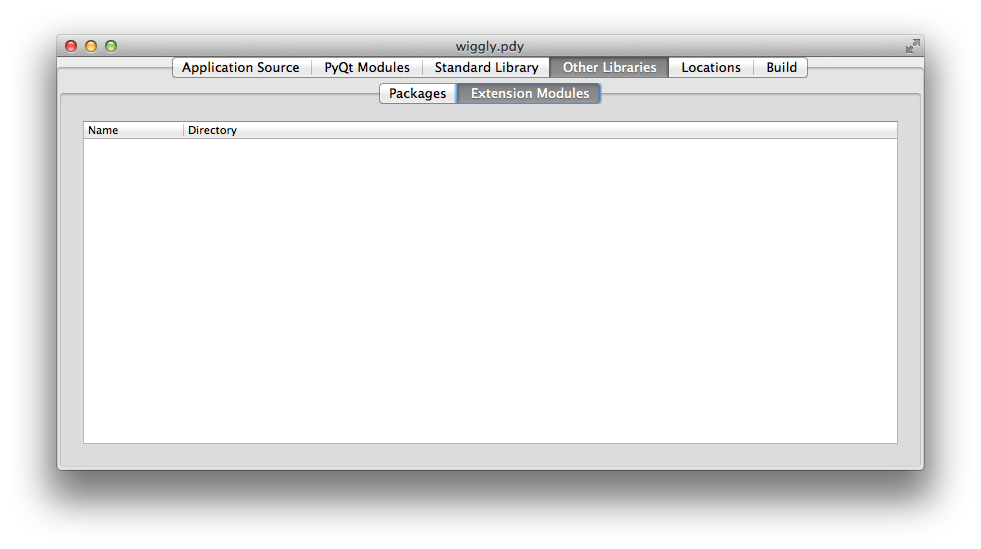
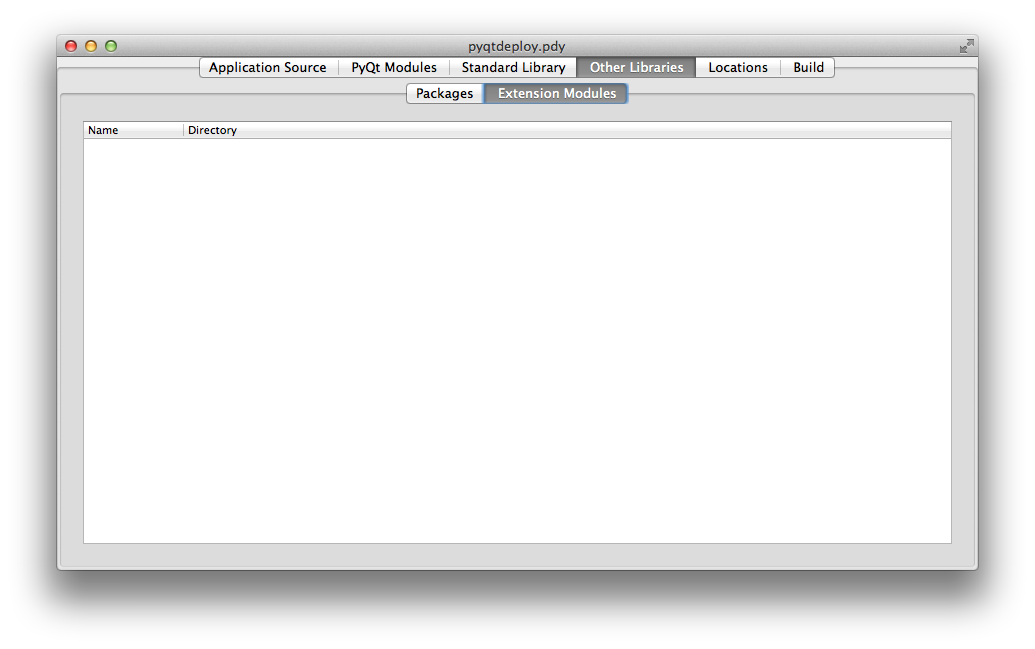
Updated the tutorial images.

Changed region(s): [[0.0306, 0.0619, 0.948, 0.929]]

diff --git a/doc/tutorial.rst b/doc/tutorial.rst
@@ -191,16 +191,6 @@ internally are included so, for example, the above shows that the
 :mod:`_weakrefset` and :mod:`abc` modules will be included and cannot be
 changed.
 
-
-Defining the Standard Library Extension Modules
------------------------------------------------
-
-The sub-tab for defining the Python standard library C extension modules used
-by the application is shown below.
-
-.. image:: /images/stdlib_extension_modules_tab.png
-    :align: center
-
 This sub-tab is used to select which of the standard library C extension
 modules are needed by the application and, optionally, to configure how those
 modules are compiled.  These extension modules usually exist for one of two
